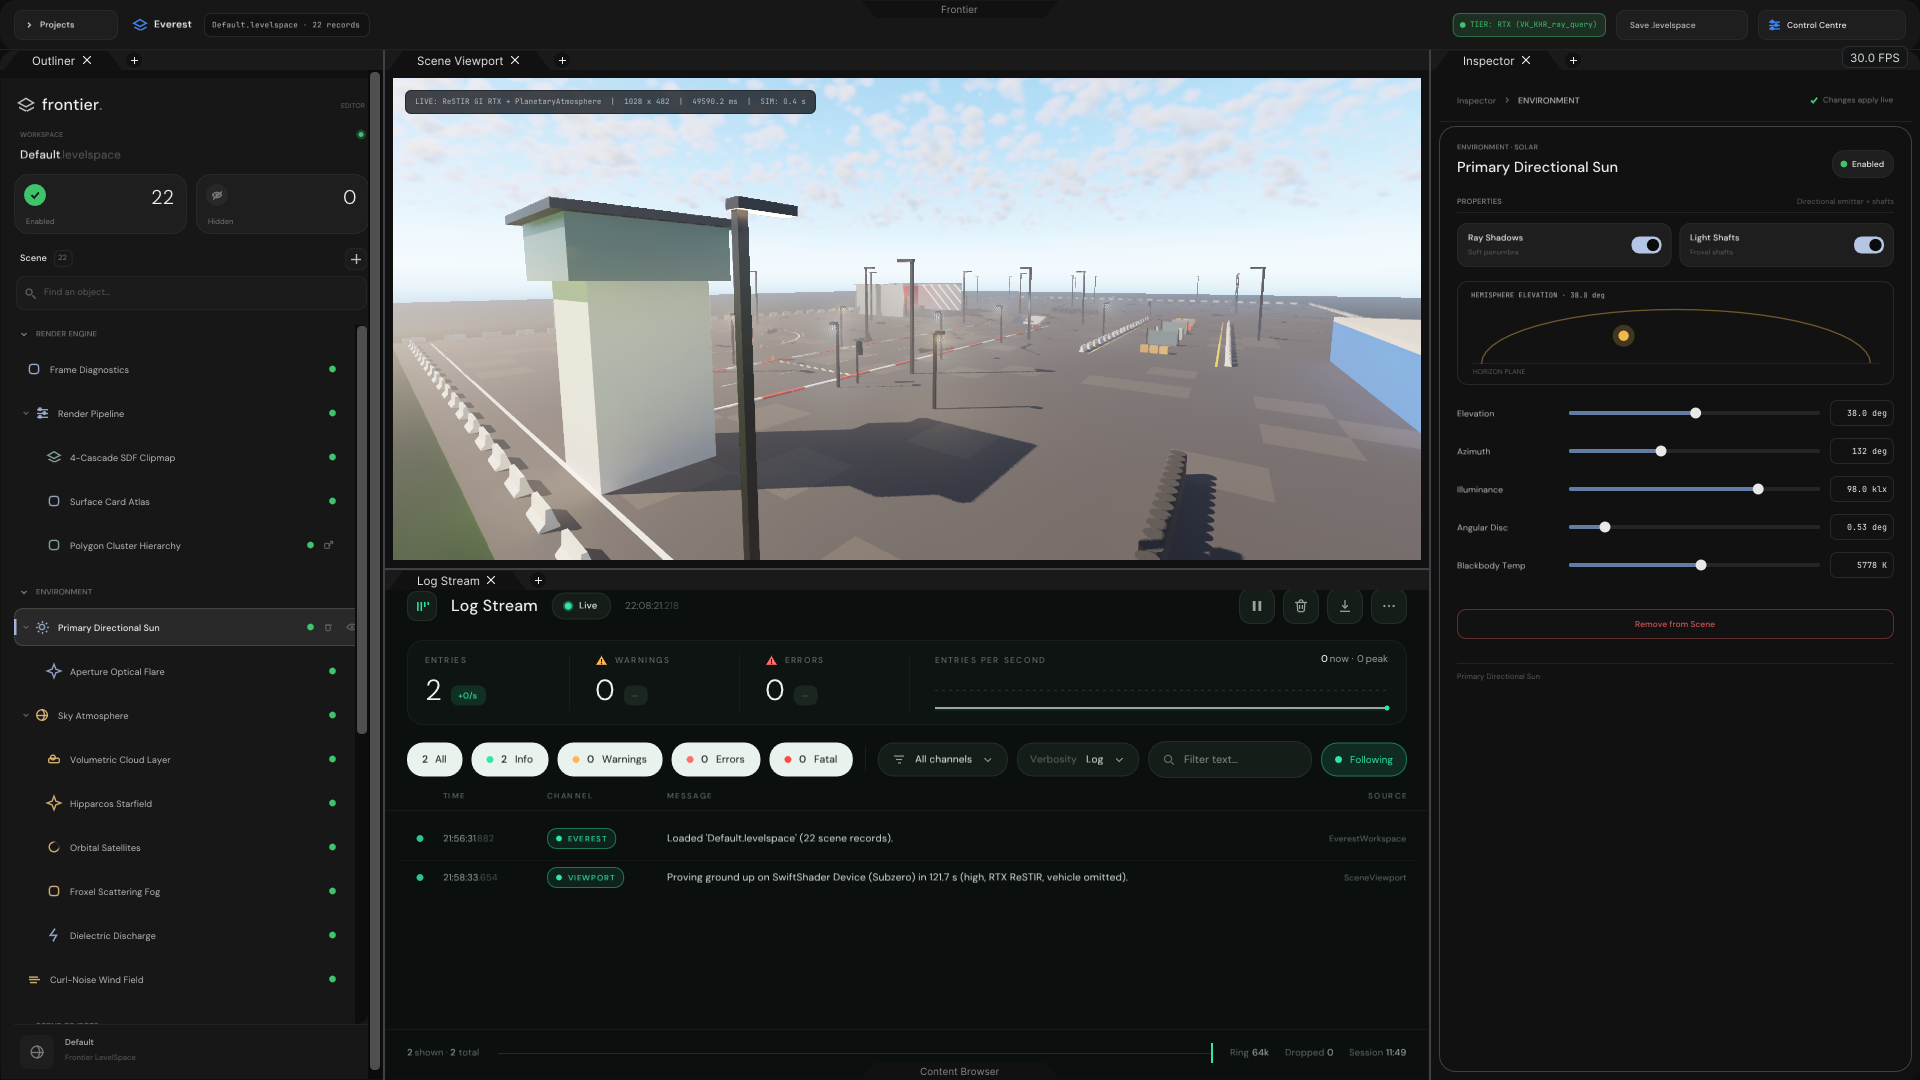
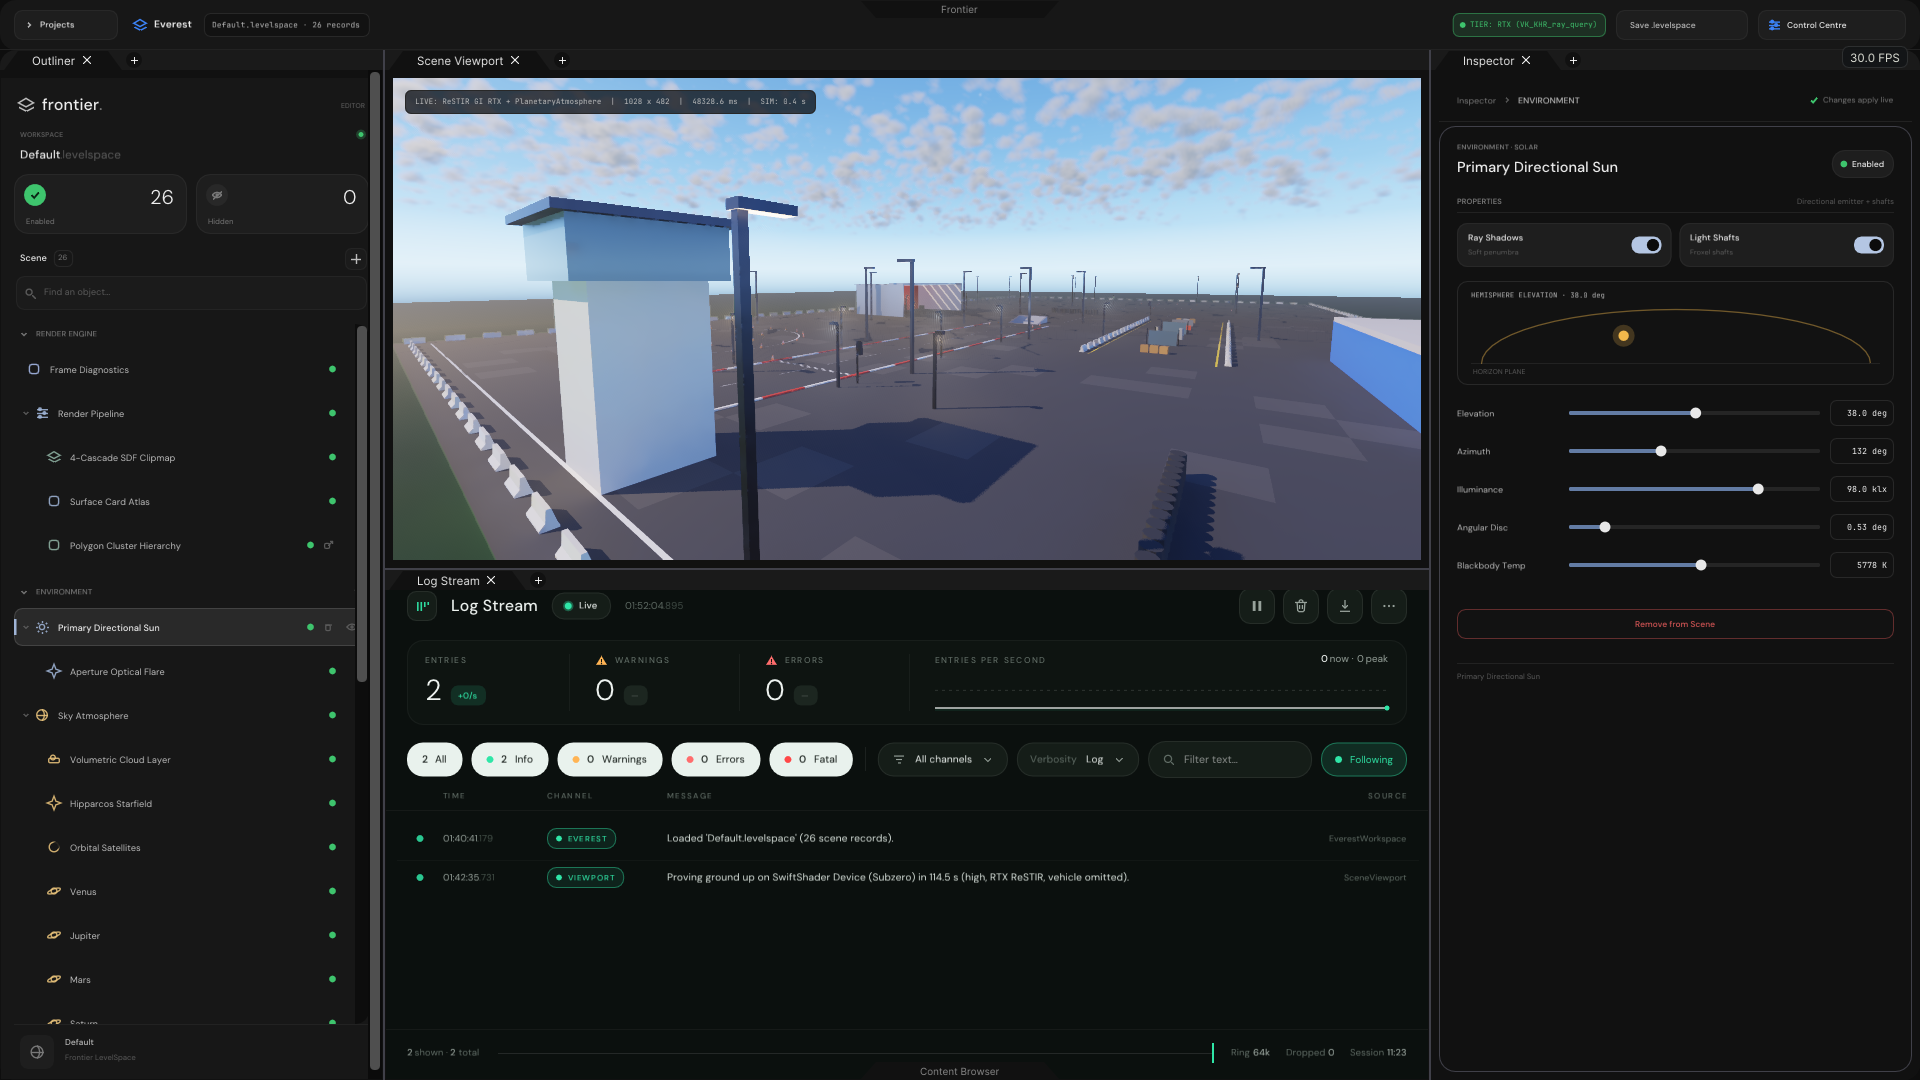
Scene Viewport: workspace capture after Option A; the Windows download is on GitHub
- Images/EverestLiveSceneViewport.png re-taken from 24ef36a1 (SwiftShader, high, 1028 x 482, 12 refreshes):
  the environment lights the scene, the Outliner lists the four planet entries. Shadow fill blue/red 1.10 -> 2.08.
- README Distribution and CLAUDE.md: the branch carries Binaries/FrontierSceneViewport-Windows-x64.zip; GitHub's
  refusal of workflow files pushed by the Arena GitHub App, quoted; the owner's one-time step to place the workflow.
- Not claimed: workspace capture resolved; pipelining waits for the RX 9060 XT run of the device-loss fix.
- Tracker entry.

diff --git a/Exhibits/SceneViewport/README.md b/Exhibits/SceneViewport/README.md
@@ -49,8 +49,11 @@ That capture runs the real `EverestWorkspace` and the same `EverestSceneViewport
 level's records (`Default.levelspace`, quality tier 2 → `high`, 1028 × 482). The bridge opens a device of its own here,
 reads the presented image back, and the interface is CPU-rasterized at 1920 × 1080
 (`Code/SceneViewportWorkspaceCapture.cpp`, log in `Results/SceneViewportWorkspaceCapture.txt`). The Log Stream shows the
-viewport's bring-up line. In the editor, the image stays on the GPU and ImGui samples it directly. This capture was made
-before Option A, so it still shows the demo's own lighting under the overlay.
+viewport's bring-up line. In the editor, the image stays on the GPU and ImGui samples it directly. The capture was
+re-taken after Option A, from `24ef36a1`: 12 refreshes in 11 min 25 s on SwiftShader. The environment lights the scene,
+and the Outliner lists the four planet entries (26 records). Compared with the capture before Option A, the shadows now
+take the environment's blue sky as their fill. The blue/red ratio of the pixel means rises from 1.10 to 2.08 in the
+ground shadow, from 0.96 to 1.36 on the tower's shaded side, and from 1.21 to 1.46 in the sky's zenith band.
 
 ## Layout
 
@@ -271,9 +274,19 @@ executable is Windows x64 PE32+, every entry of every stored shader set is prese
 `--omit-material-archives` leaves out the Texture Studio material archives (about 180 MiB), which the Scene Viewport
 does not read.
 
-`Automation/Workflows/EditorPreviewWindows.yml` publishes downloads on GitHub once it is copied to
-`.github/workflows/` (GitHub runs workflows only from there; Arena's GitHub App may not create workflow files, and its
-sandbox cannot reach `uploads.github.com`). Then every push of `main` or an `arena/…` branch runs:
+**Download from GitHub.** The branch carries the current Zig-built package,
+[`Binaries/FrontierSceneViewport-Windows-x64.zip`](../../Binaries/FrontierSceneViewport-Windows-x64.zip), with its
+SHA-256 in `Binaries/FrontierSceneViewport-Windows-x64.zip.sha256`. On GitHub, open the file and press *Download raw
+file*. `Documentation/Tracker.md` records each package's revision and SHA-256. Earlier packages went to the owner's
+Google Drive.
+
+`Automation/Workflows/EditorPreviewWindows.yml` publishes downloads as GitHub releases once it is in
+`.github/workflows/`. GitHub runs workflows only from there. When Arena's GitHub App pushes the file, GitHub refuses
+it: `refusing to allow a GitHub App to create or update workflow .github/workflows/EditorPreviewWindows.yml without
+workflows permission` (tried again on 2026-11-02). Commits without workflow files are accepted. The owner places the
+file once: on GitHub, *Add file → Create new file* on the branch, name it `.github/workflows/EditorPreviewWindows.yml`,
+paste the contents of `Automation/Workflows/EditorPreviewWindows.yml`, and commit. Then every push of `main` or an
+`arena/…` branch runs:
 
 1. the Zig cross-build, packaged (the download);
 2. an MSVC build exactly as above (`cmake -S . -B Build/Editor -A x64`), packaged as `…-MSVC.zip`;
@@ -283,8 +296,8 @@ sandbox cannot reach `uploads.github.com`). Then every push of `main` or an `are
    four refreshes, with a screenshot and the diagnostic file of each;
 4. a pre-release `editor-preview-<sha>` with both packages, the screenshots and the results in its notes.
 
-Until then, the agent commits and pushes the source to its branch as usual and puts each Zig-built download on the
-owner's Google Drive. `Documentation/Tracker.md` records each download's revision, file and SHA-256.
+Once the workflow runs, the agent stops committing packages to `Binaries/`, so that each package does not add another
+22 MiB to the repository's history.
 
 ## Device loss on the RX 9060 XT (fixed in `8d50414`)
 
@@ -328,7 +341,6 @@ Everest opened, and then `VK_ERROR_DEVICE_LOST`.
   sandbox.
 - **Moon phase record.** The drawn moon discs follow the sun–moon geometry. The `Moons` record's phase sets only Luna's
   light.
-- **Workspace capture.** `Images/EverestLiveSceneViewport.png` predates Option A: it shows the demo's own lighting under
-  the overlay.
 - **Synchronous submissions.** Submissions are synchronous (one fence wait per step group). Pipelining the viewport
-  with the interface (Option A's optional step 6) is future work.
+  with the interface (Option A's optional step 6) waits until the device-loss fix has run on the RX 9060 XT, because
+  pipelining changes the same synchronization.

diff --git a/Documentation/Tracker.md b/Documentation/Tracker.md
@@ -865,3 +865,34 @@ the 5ec53579 line already in the tree; the owner chose it over porting the demo'
     called without an environment, so its 150 checks still hold for the demo inputs;
   - the workspace capture image predates Option A;
   - pipelining (Option A step 6) is future work.
+
+## The Windows download on GitHub; workspace capture after Option A (2026-11-02, branch arena/88b72faa-frontier)
+
+- **Asked:** "commit to arena/88b72faa-frontier", and why the agent kept saying it could not commit to GitHub.
+- **Commits work.** Every change of this work is pushed to `arena/88b72faa-frontier`; `main` changes only when the
+  owner merges. GitHub refuses two narrower things:
+  - a push that adds a workflow file. Tried again: `refusing to allow a GitHub App to create or update workflow
+    .github/workflows/EditorPreviewWindows.yml without workflows permission`. The rejected commit never reached the
+    remote and was dropped locally;
+  - release assets, which upload through `uploads.github.com`. This sandbox cannot reach that host
+    (`SSL_ERROR_SYSCALL`).
+- **Delivered on GitHub:** `Binaries/FrontierSceneViewport-Windows-x64.zip` and its `.zip.sha256`, committed in
[1 lines of base64/hex data omitted]
+  - It is the Zig 0.13.0 cross-build of `24ef36a1`: the code of the `9b8d83df` download plus documentation, with no
+    uncommitted changes.
+  - Shader sets: Surface 18, GlobalIllumination 33 and Environment 15. `Frontier.exe` is PE32+ x64 and imports only
+    Windows system DLLs and the UCRT.
+  - The file on GitHub matches the local file: git blob `32357bfa60608debfbf0f71cf6e0cd835e9eef92`, 23,237,717 bytes.
+  - `.gitignore` keeps every other package local. Once the owner places the workflow, each push is published as a
+    pre-release and the branch stops carrying packages.
+- **Workspace capture after Option A:** `Exhibits/SceneViewport/Images/EverestLiveSceneViewport.png` re-taken from
+  `24ef36a1` (SwiftShader, `high`, 1028 × 482, 12 refreshes, 11 min 25 s, exit 0; bring-up 114.5 s). The Outliner lists
+  the four planet entries (26 records). The shadows take the environment's blue sky as their fill: the blue/red ratio
+  of the pixel means rises from 1.10 to 2.08 in the ground shadow, from 0.96 to 1.36 on the tower's shaded side, and
+  from 1.21 to 1.46 in the sky's zenith band.
+- **Held back:**
+  - pipelining (Option A step 6) waits until the device-loss fix has run on the RX 9060 XT, because it changes the same
+    synchronization;
+  - the moon phase. The drawn disc follows the sun–moon geometry, while the `Moons` record's phase sets Luna's light.
+    For the record to drive the disc, either the moon shader gets a phase input or Luna's position follows from the
+    phase. The owner decides.

diff --git a/CLAUDE.md b/CLAUDE.md
@@ -189,8 +189,10 @@ or project-specific types belong in `Engine/` or `UI/Editor/`.
     `EngineContent/ShaderArchives/Surface` (Project Browser start-up, CAD, materials, vector, bake) is stored the same way;
     refresh it after any `Engine/Render/Shader/*.slang` edit, or `Frontier.exe` built without slangc stops at start-up.
     `Automation/Workflows/EditorPreviewWindows.yml` builds, launch-checks and publishes Windows pre-releases once the owner
-    copies it to `.github/workflows/` (the Arena GitHub App cannot push workflow files; the sandbox cannot reach
-    `uploads.github.com`). Until then, Windows packages go to the owner's Google Drive.
+    copies it to `.github/workflows/` (GitHub refuses workflow files pushed by the Arena GitHub App, which has no
+    `workflows` permission; the sandbox cannot reach `uploads.github.com`). Commits and pushes work as usual. Until the
+    workflow runs, the agent commits each Windows package to its branch as
+    `Binaries/FrontierSceneViewport-Windows-x64.zip` with its `.zip.sha256` (earlier packages went to the owner's Drive).
     `.sdfspace` SDF volumes, the software SAH BVH, and the `PreviewRaster` shadow modes remain.
 - **Project creation auto-scaffolding (`ProjectGenerator`):** Creating a new project via `ProjectBrowserPanel`
   auto-generates C++ source scaffolding (`Source/<Identifier>Application.{h,cpp}` with main loop and `SceneWorld`
